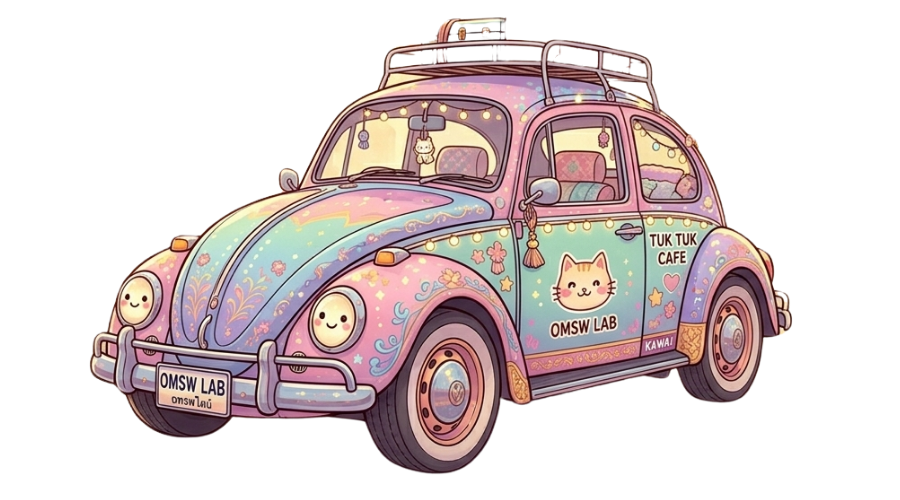
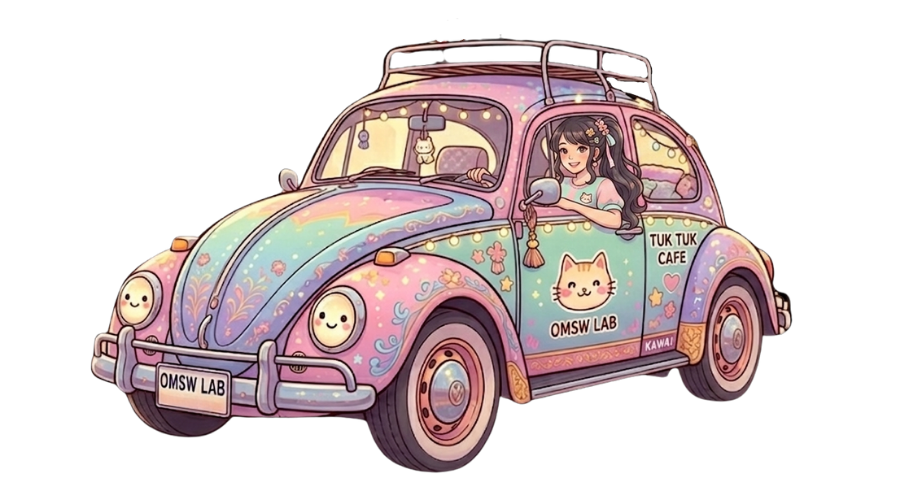
change picture  car

diff --git a/apps/web/app/widget/gift-vehicle/[id]/page.tsx b/apps/web/app/widget/gift-vehicle/[id]/page.tsx
@@ -29,7 +29,7 @@ const VEHICLES: Record<string, string> = {
   tuktuk: "/assets/vehicles/tuktuk.png",
   pickup: "/assets/vehicles/pickup.png",
   car: "/assets/vehicles/car.png",
-  saleng: "/assets/vehicles/saleng.png",
+  vespa: "/assets/vehicles/vespa.png",
 };
 
 const ROSE_IMAGE = "/assets/rose.png";

diff --git a/apps/web/app/dashboard/page.tsx b/apps/web/app/dashboard/page.tsx
@@ -43,9 +43,9 @@ const VEHICLES = [
     image: "/assets/vehicles/car.png",
   },
   {
-    id: "saleng",
-    name: "Saleng",
-    image: "/assets/vehicles/saleng.png",
+    id: "vespa",
+    name: "vespa",
+    image: "/assets/vehicles/vespa.png",
   },
 ];
 
